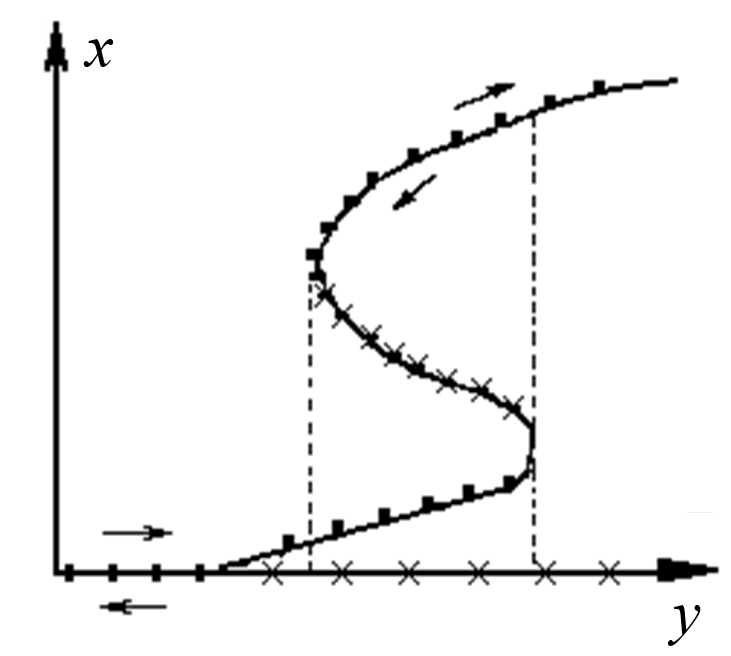
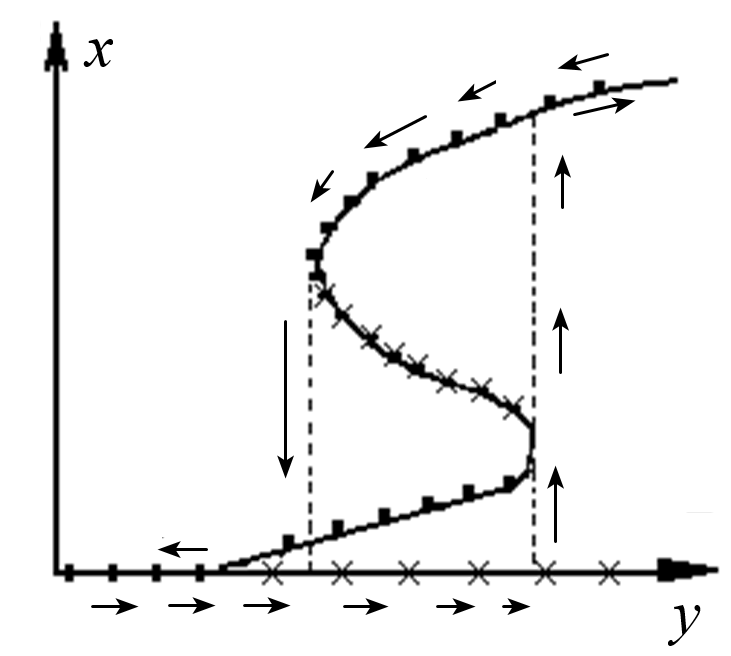
commit

diff --git a/tk.tex b/tk.tex
@@ -50,17 +50,48 @@
 		Значение параметра, при котором ДС является негрубой, называется бифуркационным.
 		
 		\section{Метод линеаризации определения устойчивости состояний равновесия}
+		Рассматриваем систему $n$-ого порядка:$\dot{x} = F(x), x\in R^n, F(x)$ - гладкая вектор-функция. Пусть система имеет состояние равновесия $x = x^*$\\ Введем малое возмущение $\dot{\xi} = F(x^* + \xi)$, разложим правую часть в ряд Тейлора: $\dot{\xi} = A\xi + \dots$, где $A$ - матрица Якоби $m$ с элементами $a_{ik} = \dfrac{\partial F_i}{\partial x_k}|_{x=x^*}$, и отбросим все нелинейные по $\xi$ слагаемые. Этим мы линеаризовали систему.\\
+		Решения ищем в виде $\xi = Ce^{\lambda t}$, $C$ - матрица-столбец. Подставив это решение в линеаризованное уравнение мы перейдем к системе линейных однородных уравнений, которая имеет нетривиальное решение, если $det (A-\lambda E) = 0$. Это уравнение эквивалентно $a_0 \lambda ^n + a_1 \lambda ^{n-1} + \dots + a_n = 0$ - характеристическому уравнению. Его корни - характерестические показатели состояния равновесия $x=x^*$\\
+		\textbf{1. Все корни имеют отрицательные вещественные части} ($Re \lambda_i < 0$) - состояние равновесия системы асимптотически устойчиво\\
+		\textbf{2. Среди корней есть корень с $Re > 0$} - состояние равновесия неустойчиво по Ляпунову\\
+		\textbf{3. Среди корней нет значений с $Re > 0$, но есть корень с $Re = 0$} - состояние равновесия может быть как устойчивым, так и неустойчивым
 		
 		\section{Линейный осциллятор. Основные свойства}
-		
+		Осциллятор - простейшая динамическая система с двумерным фазовым портретом\\
+		Уравнение ЛО: $\ddot{x} + 2\delta \dot{x} + \omega_0^2 = 0$, \quad $2\delta = \frac{R}{L}, \quad \omega_0^2 = \frac{1}{LC}$\\
+		$\delta $ - потери, $\omega_0$ - частота собственных колебаний\\
+		\textbf{1. Без потери энергии}\\
+		$\begin{cases}
+			\dot{x} = y \\
+			\dot{y} = -\omega_0^2 x
+		\end{cases} $
+		\quad \quad $\lambda_{1,2} = \pm i\omega_0$\\
+		Состояние равновесия в начале координат - центр\\
+		\textbf{Свойства:}\\
+		$\divideontimes$ Гармонические колебания происходят с частотой $\omega_0$, амплитудой $A = \sqrt{{x_0}^2} + \dfrac{{y_0}^2}{\omega_0^2}$ и фазой $tg \varphi = \dfrac{\omega_0 x_0}{\omega_0^2}$ ($x_0$ и $y_0$ - в момент $T$)\\
+		$\divideontimes$ Колебания изохронны - не зависят от начальных условий\\
+		$\divideontimes$ Энергия системы сохраняется\\
+		\textbf{2. С потерями энергии ($\delta \neq 0$)}\\
+		$\begin{cases}
+			\dot{x} = y \\
+			\dot{y} = -2\delta y-\omega_0^2 x
+		\end{cases} $
+		\quad \quad $\lambda^2 + 2\delta \lambda + \omega_0^2 = 0$ - характерестическое ур-е\\
+		$\divideontimes$ Затухающий процесс ($\delta > 0, \delta^2 < \omega_0^2$):\\
+		$\omega = \sqrt{\omega_0^2 - \delta^2}, \quad \lambda_{1,2} = -\delta \pm i\omega_0$\\
+		Состояние равновесия - устойчивый фокус, затухающие колебания с изоклиной - экспонентой\\
+		$\divideontimes$ Затухающий апериодический процесс ($\delta > 0, \delta^2 > \omega_0^2$):\\
+		$\lambda_{1,2} = -\delta \pm \sqrt{\delta^2 - \omega_0^2}$, состояние равновесия - устойчивый узел\\
+		$\divideontimes$ Отрицательное затухание ($\delta<0$): энергия растет во времени, состояние равновесия - неустойчивый фокус при $\delta^2<\omega_0^2$ или неустойчивый узел при $\delta^2\geqslant \omega_0^2$
+
 		\section{Резонанс в линейном осцилляторе}
 		Резонанс — неограниченное возрастание амплитуды вынужденных колебаний, когда частота внешней силы близка к собственной частоте, линейного осциллятора.\\
 		\textbf{1. Консервативный случай (без потери энергии)}\\
-		$W$ - не диссипирует. $a = \dfrac{F_0}{\left\lvert {\omega_0}^2 - \omega^2\right\rvert }$ - амплитуда вынужденных колебаний переменной x(t).\\
+		$W$ - не диссипирует. $a = \dfrac{F_0}{\left\lvert \omega_0^2 - \omega^2\right\rvert }$ - амплитуда вынужденных колебаний переменной x(t).\\
 		При резонансе измерение переменных во времени - непереодическое: $x(t) = t\dfrac{F_0}{2\omega_0}sin(\omega_0 t)$\\
 		\includegraphics[width=0.6\linewidth]{tk_img/rezonans_1.png}\\
 		\textbf{2. Диссипативный случай (с потерями энергии)}\\
-		$a_{max}\to \omega_{max}<\omega_0, \quad \omega_{max} = \sqrt{{\omega_0}^2 - 2\delta^2}, \quad a_{max} = \dfrac{F_0}{2\delta \sqrt{{\omega_0}^2 - 2\delta^2}}, \quad \delta \uparrow a_{max} \downarrow $\\
+		$a_{max}\to \omega_{max}<\omega_0, \quad \omega_{max} = \sqrt{\omega_0^2 - 2\delta^2}, \quad a_{max} = \dfrac{F_0}{2\delta \sqrt{\omega_0^2 - 2\delta^2}}, \quad \delta \uparrow a_{max} \downarrow $\\
 		\includegraphics[width=0.6\linewidth]{tk_img/rezonans_2.png}\\
 		\textbf{Характеристики резонансных свойств}\\
 		Добротность - $Q = \dfrac{\pi}{d} = \dfrac{\omega_0}{2\delta}$\\
@@ -68,16 +99,23 @@
 		
 		\section{Определение предельного цикла. Характеристики}
 		Предельный цикл — замкнутая изолированная фазовая траектория. Замкнутая фазовая траектория называется изолированный, если существует достаточно малое кольцеобразная окрестность этой траектории, внутри которой нет других замкнутых траекторий.\\
-		Предельному циклу соответствует периодический процесс.
+		Предельному циклу соответствует периодический процесс.\\
+		\textbf{Характеристики:}\\
+		$\divideontimes$ Мультипликатор $S$: $S<1$ - ПЦ устойчивый, $S>1$ - ПЦ неустойчивый. Всегда $S>0$\\
+		$\divideontimes$ Характерестический показатель $\lambda$: $\lambda<0$ - ПЦ устойчивый, $\lambda>0$ - ПЦ неустойчивый. $\lambda$ можем получить в уравнении при линеаризации системы\\
+		Связь характеристик: $\lambda = \dfrac{1}{T_0}ln(S)$
 		
 		\section{Автоколебания и автоколебательная система. Мягкий и жесткий режимы возбуждения}
 		Автоколебательная система — диссипативная система, совершающая незатухающие колебания при отсутствии колебательного воздействия извне. В этих системах возникает баланс между действиями диссипативных потерь и внутренних механизмов, компенсирующих потери. Автоколебания — незатухающие колебания в нелинейной диссипативной системе, форма и свойства которых в определенных пределах не зависит от начальных условий и определяется параметрами самой системы.\\
-		1. Мягкий режим\\
-		$\gamma < 0$ - автоколебаний нет, $\gamma = 0$ - суперкритическая бифуркация Андронова-Хопфа ($\lambda_i < 0$), $\gamma > 0$ - неустойчивое состояние равновесия + появление одного устойчивого предельного цикла на фазовой плоскости. \quad $\gamma \uparrow A \uparrow$\\
-		\includegraphics[width=0.45\linewidth]{tk_img/avtokoleb_1.png}\\
-		Состояние равновесия $\gamma = 0$ - безопасная граница устойчивости, то есть при ее нарушении система переходят в качественно новое состояние, но не покидает при $0<\gamma \ll 1$ окрестности предыдущего состояния.
-		2. Жесткий режим\\
-		\includegraphics[width=0.45\linewidth]{tk_img/avtokoleb_2.png}\\
+		\textbf{1. Мягкий режим\\}
+		$\gamma < 0$ - автоколебаний нет, $\gamma = 0$ - суперкритическая бифуркация Андронова-Хопфа ($\lambda_i < 0$), $\gamma > 0$ - неустойчивое состояние равновесия + появление одного устойчивого предельного цикла на фазовой плоскости. \quad $\gamma \uparrow A \uparrow$\\\\
+		Состояние равновесия $\gamma = 0$ - безопасная граница устойчивости, то есть при ее нарушении система переходят в качественно новое состояние, но не покидает при $0<\gamma \ll 1$ окрестности предыдущего состояния.\\
+		\textbf{2. Жесткий режим\\}
+		$\lambda< 0$ - состояние равновесия локально устойчиво, $\lambda = 0$ - состояние равновесия теряет устойчивость $\rightarrow$ автоколебания возникают скачком (жестко), $\lambda \uparrow A \uparrow$, затем квазистатически $\lambda \downarrow A \uparrow$ от $\lambda > 0$, а потом совсем исчезают скачком. Рождение и исчезновение АК происходит при разных $\lambda$ - наблюдается гестерезис. $\lambda = 0$ - опасная граница устойчивости состояния равновесия, так как поведение системы менятеся резко\\
+		\begin{tabular}{c c}
+			\includegraphics[width=0.40\linewidth]{tk_img/avtokoleb_1.png} & \includegraphics[width=0.35\linewidth]{tk_img/avtokoleb_2.png}
+		\end{tabular}\\
+		
 		\textbf{Свойства автоколебательных систем}\\
 		$\divideontimes$ Источник энергии для компенсации диссипации — постоянен и находится внутри самой системы\\
 		$\divideontimes$ Система содержит колебательную подсистему и активный нелинейный элемент\\
@@ -92,24 +130,31 @@
 		\section{Дисперсия, ее физическая природа и проявления}
 		Дисперсия — зависимость фазовой скорости волны от ее частоты. Связь между частотой и волновым числом гармонической волны определяется пространственными и временными масштабами среды и называется дисперсионным соотношением.\\
 		
-		\begin{tabular}{l c}
-			\begin{tabular}{l}
-				$\omega^2 = {\omega_0}^2 + \dfrac{4\gamma }{m}sin^2(\dfrac{ka}{A})$\\
+		\begin{tabular}{c c}
+			\begin{tabular}{c}
+				$\omega^2 = \omega_0^2 + \dfrac{4\gamma }{m}sin^2(\dfrac{ka}{A})$\\
 				$a$ - расстояние между маятниками\\
 				$\gamma$ - жесткость пружины\\
-				$k$ - действительное волновое число	\\ \\ \\ \\ \\ \\ \\ \\ \\ \\ \\ \\ \\ \\
+				$k$ - действительное волновое число	\\ 
+				\includegraphics[width=0.4\linewidth]{tk_img/dispers_2.png}\\
 			\end{tabular} & \begin{tabular}{c}
-				\includegraphics[width=0.45\linewidth]{tk_img/dispers.png}
+				\includegraphics[width=0.35\linewidth]{tk_img/dispers.png}\\
 			\end{tabular}
-		\end{tabular}
-		
+		\end{tabular}\\
 		У каждой компоненты волнового пакета будет своя $V_\text{ф}$, возникает его деформация. Наличием собственных масштабов объясняется эффект частичного непропускания волны\\
 		Область прозрачности: $k\in Re$ - распространение без искажения гармонической волны\\
 		Область непрозрачности: $k\in Im$ - нераспространение.
 		
 		\section{Простые волны. Основные свойства и условия существования}
 		$U_t + C(U)U_x = 0$ — нелинейное уравнение простой волны. $C(U)$ — дифференцируемая функция (скорость от состояния среды). Характеристики — линии, вдоль которых переменная $U(x, t)$ будет оставаться постоянной и равной по значению для каждого соответствующего значения $x$.\\
-		В точке пересечения характеристик их значения одинаковы — появится точка разрыва (производная равна $infty$) -  градиентная катастрофа. На переднем фронте образуется ударная волна. Уравнение перестает работать после точки разрыва.
+		\includegraphics[width=1\linewidth]{tk_img/prost_voln_1.png}\\
+		\begin{tabular}{l c}
+			\begin{tabular}{l}
+				В точке пересечения \\характеристик их значения\\ одинаковы — появится точка\\ разрыва (производная равна $\infty$)\\ - градиентная катастрофа.\\ На переднем фронте образуется \\ударная волна. Уравнение перестает \\работать после точки разрыва.
+			\end{tabular} & \begin{tabular}{c}
+				\includegraphics[width=0.35\linewidth]{tk_img/prost_voln_2.png}\\
+			\end{tabular}
+		\end{tabular}
 		
 		\section{Параметрические системы. Основные свойства}
 		Параметрически системы — системы, где внешнее воздействие находится внутри системы и может изменять ее параметры.\\
